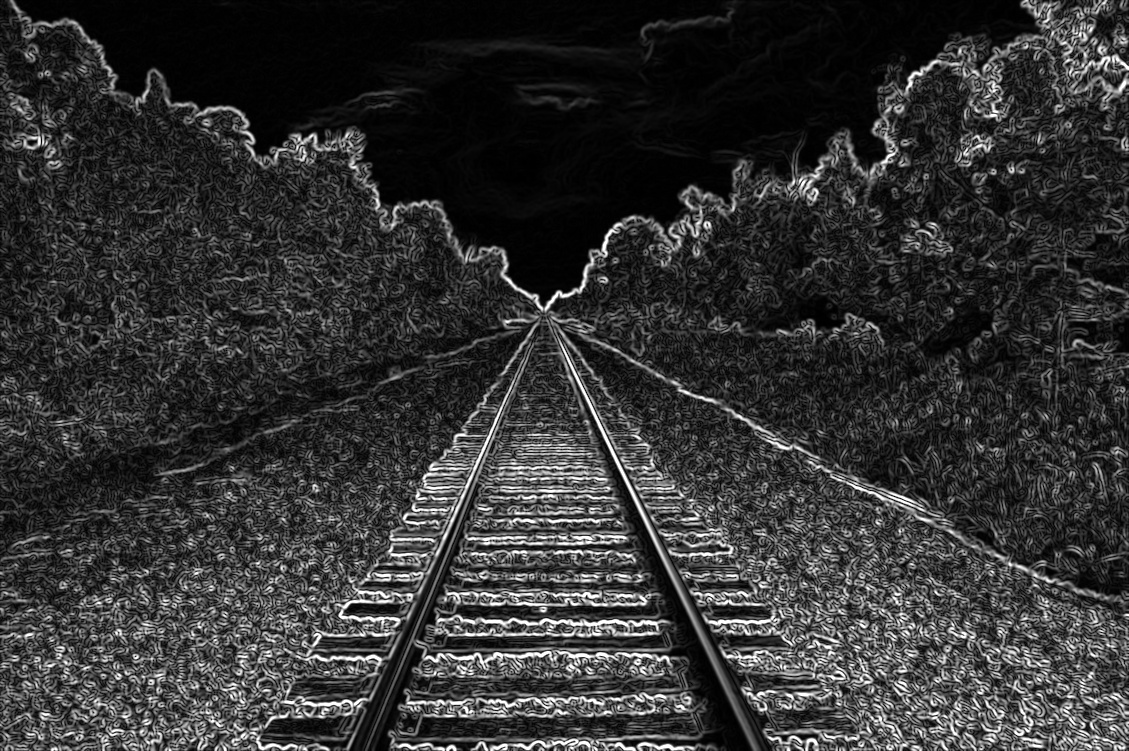
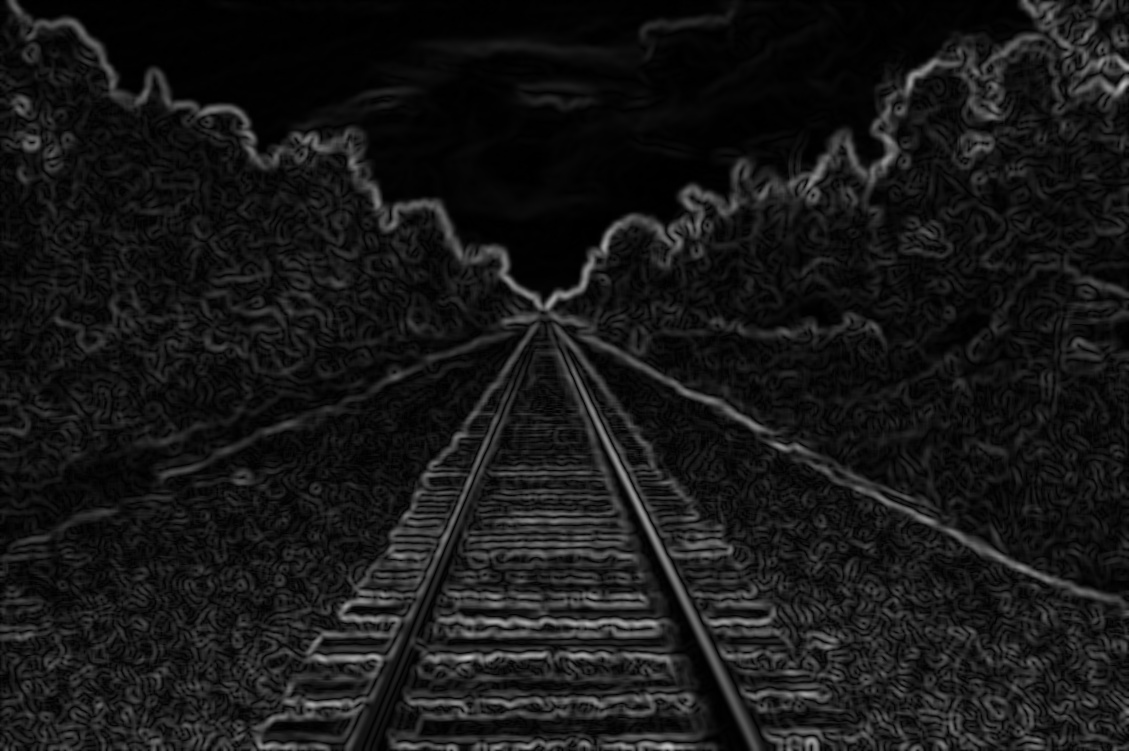
Canny Edge Detector

diff --git a/count-tracks/hough_line_finder.py b/count-tracks/hough_line_finder.py
@@ -1,5 +1,5 @@
 import numpy as np
-from scipy import signal
+from scipy import signal, ndimage
 import cv2
 
 fin = open('samples/sampleTest1.txt','r')
@@ -17,19 +17,21 @@ for line in fin.readlines():
 
 img = np.asarray(img, dtype=np.uint8)
 
+cv2.imwrite('color.jpg',img)
+
 gray_img = 0.299 * img[:,:,0] + 0.587 * img[:,:,1] + 0.114 * img[:,:,2]
 
-#cv2.imwrite('gray.jpg',gray_img)
+cv2.imwrite('gray.jpg',gray_img)
 
 #gaussian filter
-sig = 1.4
-k = 2
+sig = 3.0
+ker = 5
 gaussian_filter = []
 
-for i in range(1,2*k+1+1):
+for i in range(1,2*ker+1+1):
     temp = []
-    for j in range(1,2*k+1+1):
-        temp.append((1/(2*np.pi*(sig**2))) * np.exp((-1*((i-(k+1))**2+(j-(k+1))**2))/(2*sig**2)))
+    for j in range(1,2*ker+1+1):
+        temp.append((1/(2*np.pi*(sig**2))) * np.exp((-1*((i-(ker+1))**2+(j-(ker+1))**2))/(2*sig**2)))
     gaussian_filter.append(temp)
 
 gaussian_filter = np.asarray(gaussian_filter)
@@ -38,7 +40,10 @@ gaussian_filter = np.asarray(gaussian_filter)
 
 smoother_gray_image = signal.convolve2d(gray_img,gaussian_filter,boundary='symm',mode='same')
 
-#cv2.imwrite('smoother_gray_image.jpg',smoother_gray_image)
+#print smoother_gray_image.shape
+#print img.shape
+
+cv2.imwrite('smoother_gray_image.jpg',smoother_gray_image)
 
 #Finding the intensity gradient of the image using Sobel operator
 
@@ -54,5 +59,77 @@ G_y = signal.convolve2d(smoother_gray_image, y_filter, boundary='symm', mode='sa
 
 G = np.sqrt(np.square(G_x) + np.square(G_y))
 theta = np.arctan2(G_y,G_x)
+theta = (theta * 180 / np.pi) % 360
+
+for i in range(r):
+    for j in range(c):
+        t = theta[i][j]
+        if (t < 22.5 and t >= 0) or (t >= 157.5 and t < 202.5) or (t >= 337.5 and t <= 360):
+            t = 0
+        elif (t >= 22.5 and t < 67.5) or (t >= 202.5 and t < 247.5):
+            t = 45
+        elif (t >= 67.5 and t < 112.5) or (t >= 247.5 and t < 292.5):
+            t = 90
+        else:
+            t = 135
+        theta[i][j] = t
 
 cv2.imwrite('G.jpg',G)
+cv2.imwrite('theta.jpg',theta)
+
+#Non Maximum Suppression
+
+non_max_supp = G.copy()
+
+for i in range(1,r-1):
+    for j in range(1,c-1):
+        if theta[i][j] == 0:
+            if (G[i][j] <= G[i][j+1]) or (G[i][j] <= G[i][j-1]):
+                non_max_supp[i][j] = 0
+        elif theta[i][j] == 45:
+            if (G[i][j] <= G[i+1][j+1]) or (G[i][j] <= G[i+1][j-1]):
+                non_max_supp[i][j] = 0
+        elif theta[i][j] == 90:
+            if (G[i][j] <= G[i+1][j]) or (G[i][j] <= G[i-1][j]):
+                non_max_supp[i][j] = 0
+        else:
+            if (G[i][j] <= G[i+1][j+1]) or (G[i][j] <= G[i-1][j-1]):
+                non_max_supp[i][j] = 0 
+
+cv2.imwrite('non_max_supp.jpg',non_max_supp)
+
+maxx = np.max(non_max_supp)
+th = 0.2*maxx
+tl = 0.1*maxx
+
+gnh = np.zeros((r,c))
+gnl = np.zeros((r,c))
+
+for i in range(r):
+    for j in range(c):
+        if non_max_supp[i][j] >= th:
+            gnh[i][j] = non_max_supp[i][j]
+        if non_max_supp[i][j] >= tl:
+            gnl[i][j] = non_max_supp[i][j]
+
+gnl = gnl-gnh
+
+cv2.imwrite('gnl.jpg',gnl)
+cv2.imwrite('gnh.jpg',gnh)
+
+def traverse(i, j):
+    x = [-1, 0, 1, -1, 1, -1, 0, 1]
+    y = [-1, -1, -1, 0, 0, 1, 1, 1]
+    for k in range(8):
+        if gnh[i+x[k]][j+y[k]]==0 and gnl[i+x[k]][j+y[k]]!=0:
+            gnh[i+x[k]][j+y[k]]=255
+            traverse(i+x[k], j+y[k])
+
+
+for i in range(1, r-10):
+    for j in range(1, c-10):
+        if gnh[i][j]:
+            gnh[i][j]=255
+            traverse(i, j)
+
+cv2.imwrite('canney_edge_detected.jpg',gnh)
